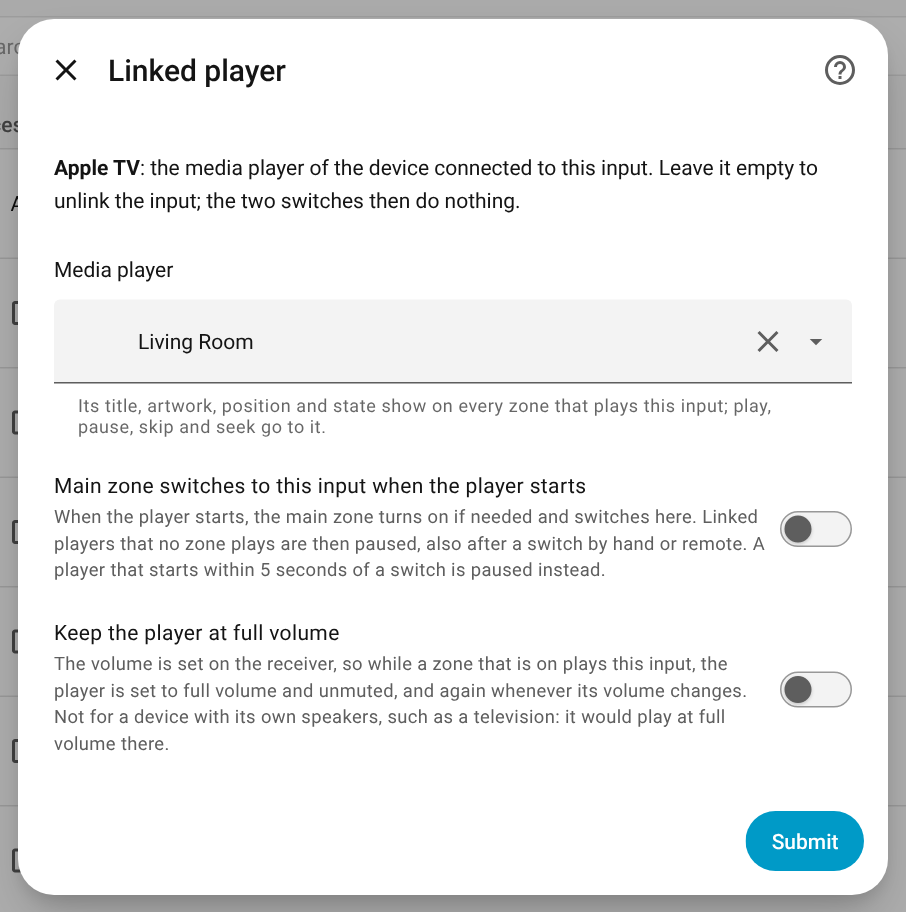
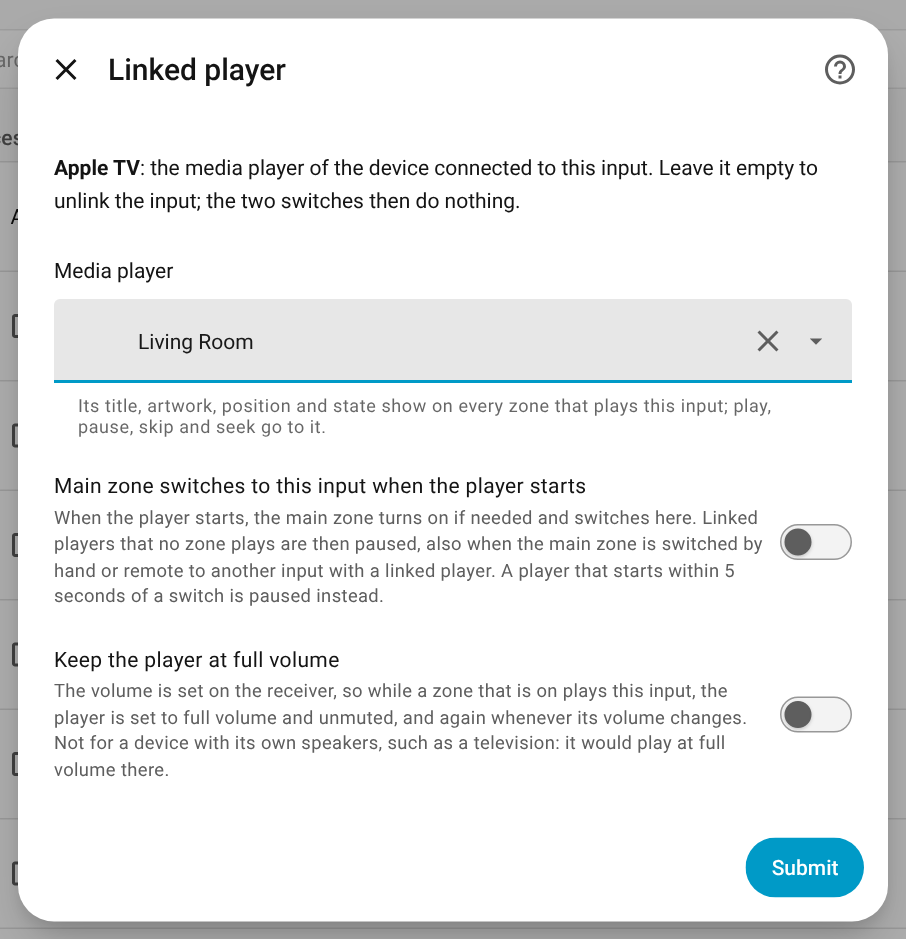
Docs: Music Assistant on the receiver's player, linked-player step retaken
The user guide's Music Assistant section shows the receiver's player on
the network input; the linked-player screenshot shows the current follow
text.

diff --git a/docs/USER_GUIDE.md b/docs/USER_GUIDE.md
@@ -423,6 +423,9 @@ mode, zones). Which of them to choose, and what Sendspin means here, is in
 the [reference](REFERENCE.md#with-music-assistant-and-the-heos-integration).
 Three settings make them one:
 
+![The receiver's media player on the network input, showing what Music Assistant plays](images/guide/more-info-music-assistant.png)
+
+
 1. **Music Assistant, Player controls** of the receiver's player: power by
    the zone's **Network Music** switch, volume by the zone's media player of
    this integration. Music Assistant turns the zone on and to the network
